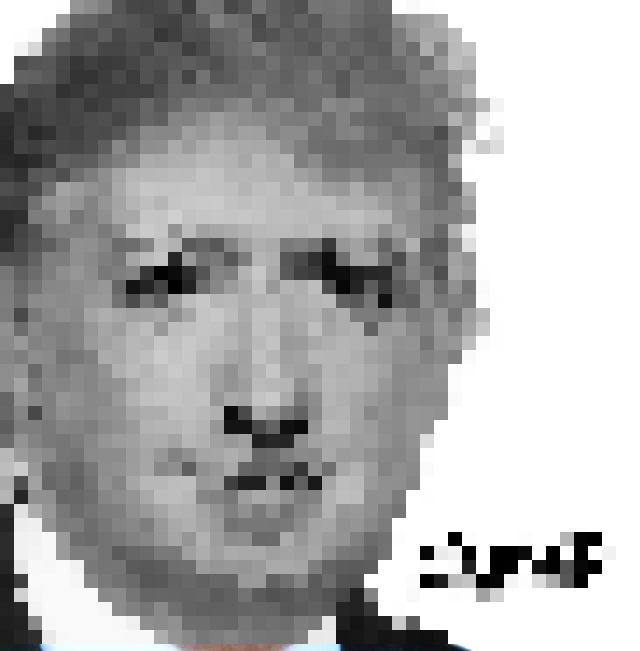
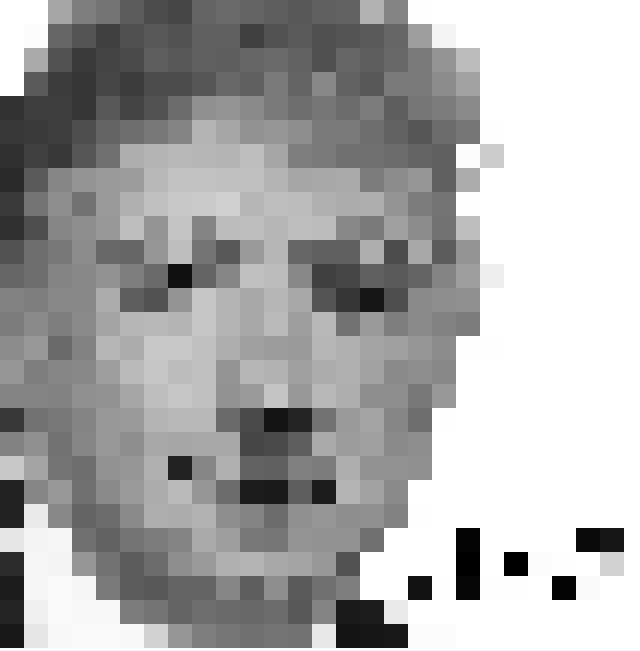
Fixing last row/column bug for sampled algorithm, still needs to be fixed on averaged algorithm

diff --git a/src/main/python/utils.py b/src/main/python/utils.py
@@ -113,8 +113,8 @@ def image_row(im, row_num, bsize, algo, rows):
 
 def graphite_smp_box(im, l, r, t, b):
     print((l, r, t, b))
-    x = random.randint(l, r)
-    y = random.randint(t, b)
+    x = random.randint(l, r-1)
+    y = random.randint(t, b-1)
     brightness = int(statistics.mean(im.getpixel((x, y))))
     im.paste((brightness, brightness, brightness), (l, t, r, b))
 
@@ -129,7 +129,15 @@ def graphite_smp(input_path, output_path, bfactor, scale=False):
         for b in range(bsize, w, bsize):
             graphite_smp_box(im, lastw, b, lasth, a)
             lastw = b
+        if lastw < w:
+            graphite_smp_box(im, lastw, w, lasth, a)
         lasth = a
+    if lasth < h:
+        lastw = 0
+        for b in range(bsize, w, bsize):
+            graphite_smp_box(im, lastw, b, lasth, h)
+        if lastw + bsize <= w:
+            graphite_smp_box(im, lastw, w, lasth, h)
     print("Processing complete!")
     print("Saving image...")
     im.save(output_path, "PNG")
